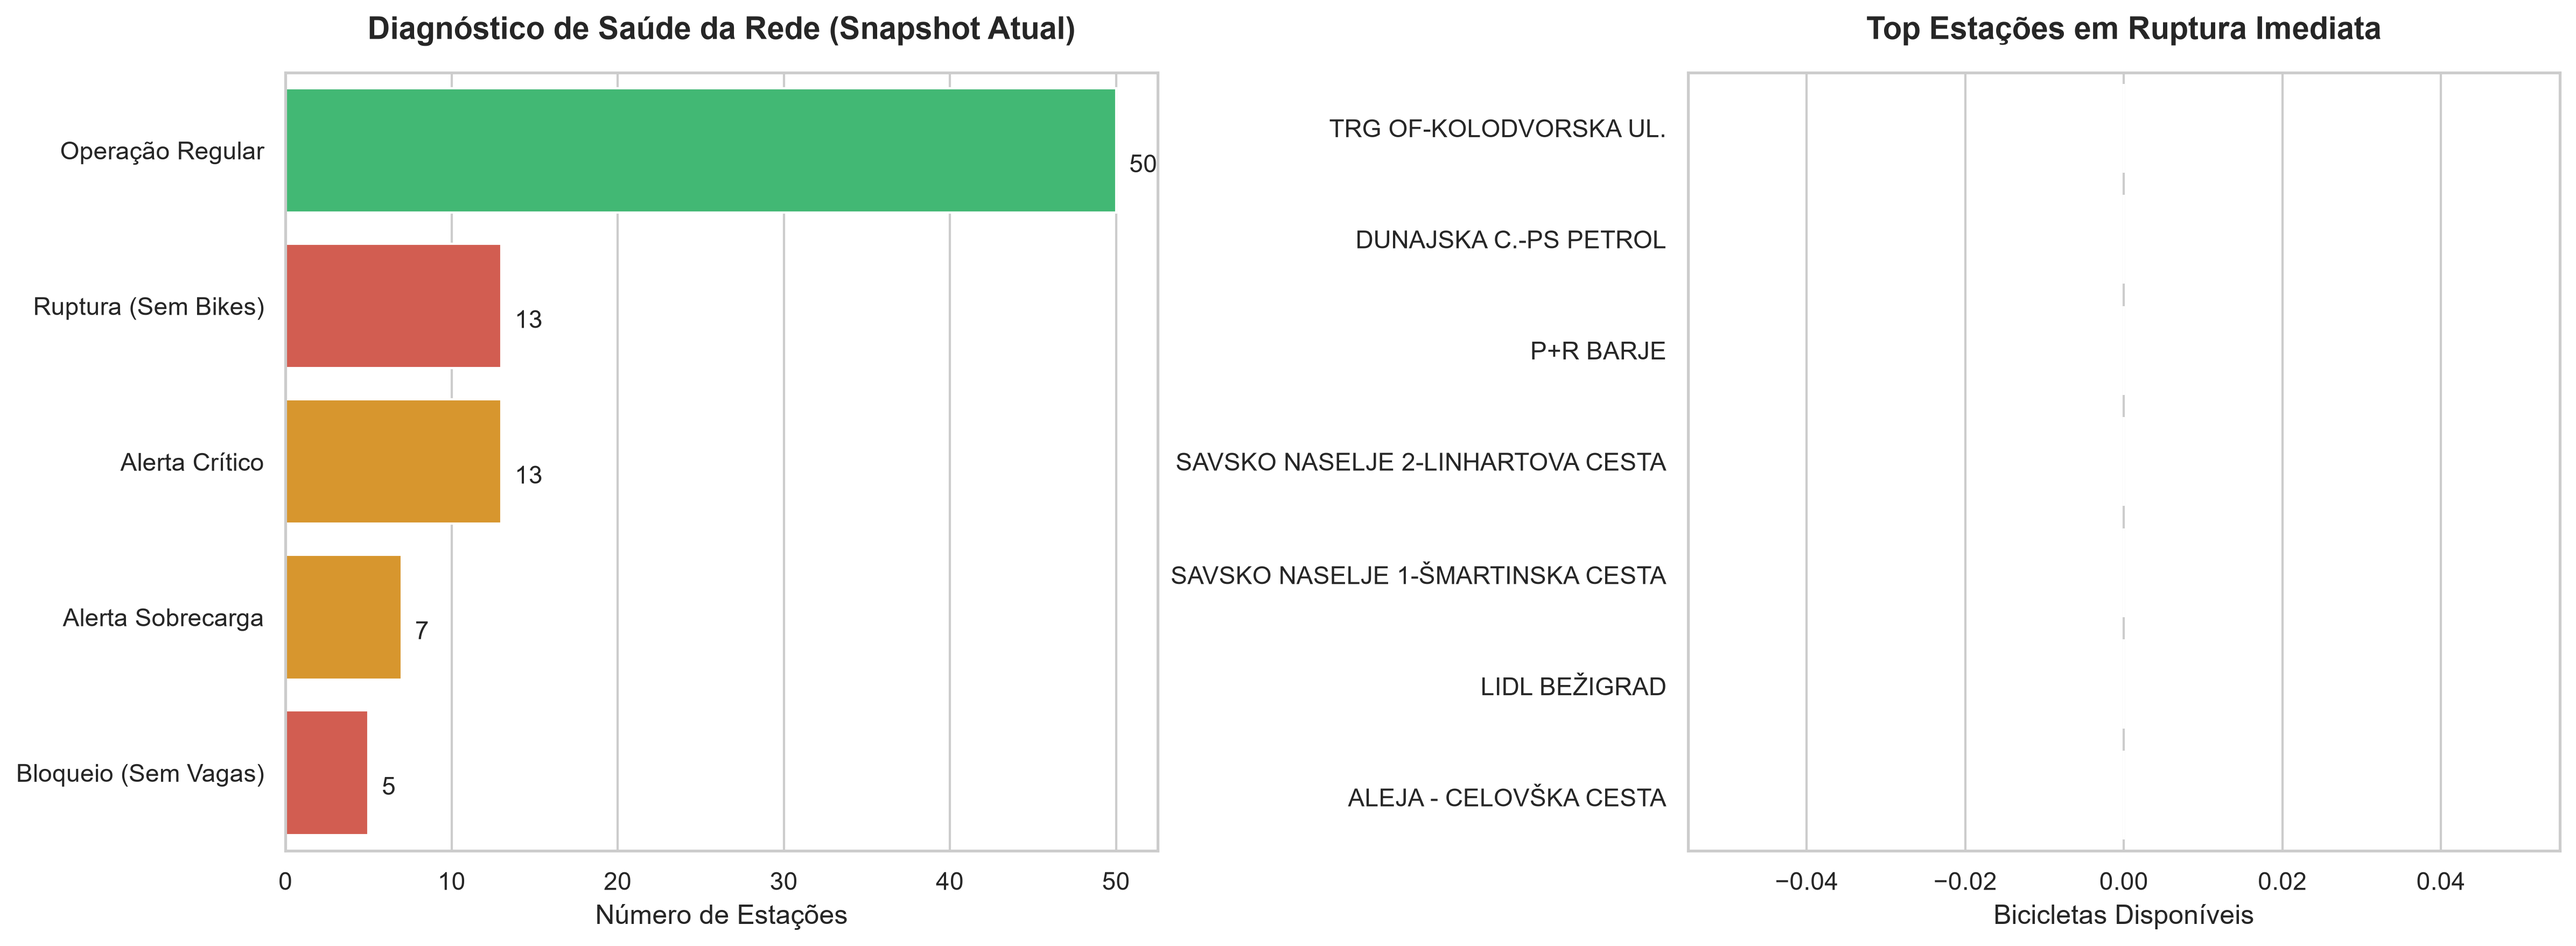
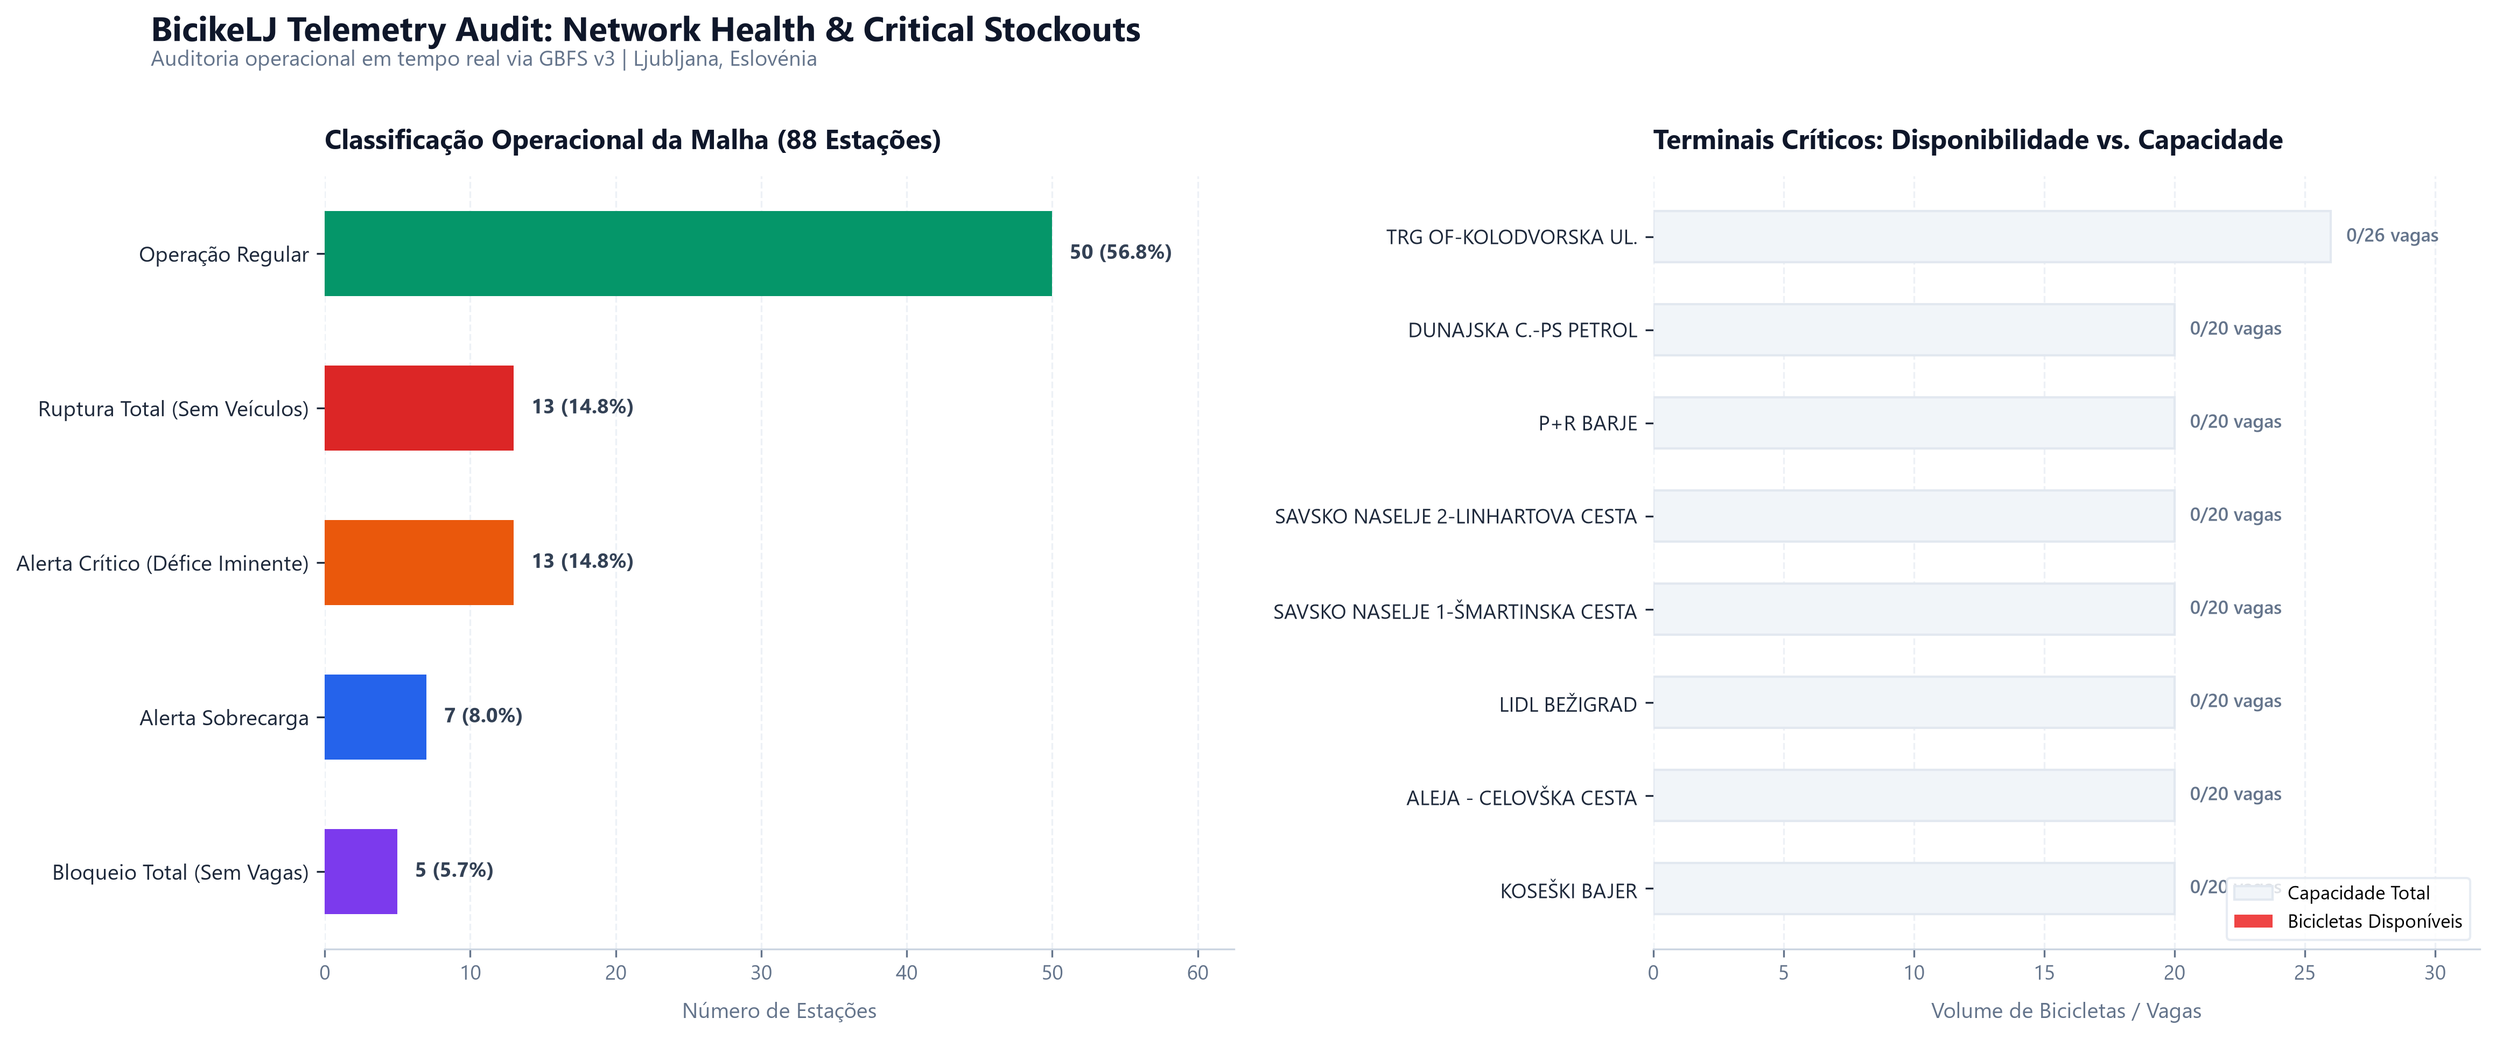
style: redesign operational dashboard with executive visual hierarchy

diff --git a/visualize.py b/visualize.py
@@ -1,68 +1,108 @@
+import os
 import sqlite3
 import pandas as pd
 import matplotlib.pyplot as plt
-import seaborn as sns
-import os
 
-# 1. Configurar estética visual
-sns.set_theme(style="whitegrid")
-plt.rcParams.update({'font.sans-serif': 'Arial', 'font.size': 11})
+# 1. Configuração tipográfica e estética limpa
+plt.rcParams.update({
+    'font.family': 'sans-serif',
+    'font.sans-serif': ['Segoe UI', 'Helvetica Neue', 'Arial', 'sans-serif'],
+    'axes.edgecolor': '#CBD5E1',
+    'axes.linewidth': 0.8,
+    'figure.facecolor': '#FFFFFF',
+    'axes.facecolor': '#FFFFFF'
+})
 
 conn = sqlite3.connect("bicikelj.db")
 
-# 2. Query 1: Distribuição do Status da Rede
+# 2. Query 1: Diagnóstico da Malha (KPIs)
 query_kpi = """
 SELECT 
     CASE 
-        WHEN bikes_available = 0 THEN 'Ruptura (Sem Bikes)'
-        WHEN bikes_available BETWEEN 1 AND 2 THEN 'Alerta Crítico'
-        WHEN docks_available = 0 THEN 'Bloqueio (Sem Vagas)'
+        WHEN bikes_available = 0 THEN 'Ruptura Total (Sem Veículos)'
+        WHEN bikes_available BETWEEN 1 AND 2 THEN 'Alerta Crítico (Défice Iminente)'
+        WHEN docks_available = 0 THEN 'Bloqueio Total (Sem Vagas)'
         WHEN docks_available BETWEEN 1 AND 2 THEN 'Alerta Sobrecarga'
         ELSE 'Operação Regular'
     END AS status,
-    COUNT(*) AS total
+    COUNT(*) AS total,
+    ROUND(COUNT(*) * 100.0 / (SELECT COUNT(*) FROM station_snapshots), 1) AS percentual
 FROM station_snapshots
 GROUP BY status
 ORDER BY total DESC;
 """
 df_kpi = pd.read_sql_query(query_kpi, conn)
 
-# 3. Query 2: Top 7 Estações com Menor Oferta
+# 3. Query 2: Terminais em Ruptura Imediata
 query_critical = """
 SELECT name, bikes_available, capacity
 FROM station_snapshots
 ORDER BY bikes_available ASC, capacity DESC
-LIMIT 7;
+LIMIT 8;
 """
 df_critical = pd.read_sql_query(query_critical, conn)
 conn.close()
 
-# 4. Construção da Figura com 2 Subplots
-fig, (ax1, ax2) = plt.subplots(1, 2, figsize=(16, 6))
+# 4. Mapeamento de Cores Corporativas
+palette_map = {
+    'Operação Regular': '#059669',                  # Emerald
+    'Ruptura Total (Sem Veículos)': '#DC2626',      # Crimson
+    'Alerta Crítico (Défice Iminente)': '#EA580C',  # Amber
+    'Bloqueio Total (Sem Vagas)': '#7C3AED',        # Violet
+    'Alerta Sobrecarga': '#2563EB'                 # Blue
+}
+df_kpi['cor'] = df_kpi['status'].map(lambda s: palette_map.get(s, '#64748B'))
 
-# Gráfico 1: Barras horizontais de status da malha
-cores_kpi = ['#2ecc71' if 'Regular' in s else '#e74c3c' if 'Ruptura' in s or 'Bloqueio' in s else '#f39c12' for s in df_kpi['status']]
-sns.barplot(data=df_kpi, y='status', x='total', palette=cores_kpi, ax=ax1)
-ax1.set_title("Diagnóstico de Saúde da Rede (Snapshot Atual)", fontsize=14, weight='bold', pad=15)
-ax1.set_xlabel("Número de Estações")
-ax1.set_ylabel("")
+# 5. Construção da Figura
+fig, (ax1, ax2) = plt.subplots(1, 2, figsize=(15.5, 6.2), gridspec_kw={'width_ratios': [1.1, 1]})
 
-# Adiciona rótulos numéricos nas barras
-for p in ax1.patches:
-    ax1.annotate(f"{int(p.get_width())}", (p.get_width() + 0.8, p.get_y() + 0.5), va='center')
+# --- GRÁFICO 1: Distribuição da Malha ---
+bars1 = ax1.barh(df_kpi['status'], df_kpi['total'], color=df_kpi['cor'], height=0.55, zorder=3)
+ax1.set_title("Classificação Operacional da Malha (88 Estações)", fontsize=12, weight='bold', color='#0F172A', loc='left', pad=12)
+ax1.set_xlabel("Número de Estações", fontsize=9.5, color='#64748B', labelpad=8)
+ax1.set_xlim(0, max(df_kpi['total']) * 1.25)
+ax1.tick_params(axis='y', labelsize=9.5, colors='#1E293B')
+ax1.tick_params(axis='x', labelsize=9, colors='#64748B')
+ax1.invert_yaxis()
 
-# Gráfico 2: Terminais Críticos com Risco de Ruptura
-sns.barplot(data=df_critical, y='name', x='bikes_available', color='#e74c3c', ax=ax2)
-ax2.set_title("Top Estações em Ruptura Imediata", fontsize=14, weight='bold', pad=15)
-ax2.set_xlabel("Bicicletas Disponíveis")
-ax2.set_ylabel("")
+for bar, pct in zip(bars1, df_kpi['percentual']):
+    width = bar.get_width()
+    y_pos = bar.get_y() + bar.get_height() / 2
+    ax1.text(width + 1.2, y_pos, f"{int(width)} ({pct}%)", va='center', ha='left', fontsize=9, weight='bold', color='#334155')
+
+# --- GRÁFICO 2: Terminais Críticos (Disponibilidade vs Capacidade) ---
+ax2.barh(df_critical['name'], df_critical['capacity'], color='#F1F5F9', edgecolor='#E2E8F0', height=0.55, label='Capacidade Total', zorder=2)
+ax2.barh(df_critical['name'], df_critical['bikes_available'], color='#EF4444', height=0.55, label='Bicicletas Disponíveis', zorder=3)
+
+ax2.set_title("Terminais Críticos: Disponibilidade vs. Capacidade", fontsize=12, weight='bold', color='#0F172A', loc='left', pad=12)
+ax2.set_xlabel("Volume de Bicicletas / Vagas", fontsize=9.5, color='#64748B', labelpad=8)
+ax2.tick_params(axis='y', labelsize=9, colors='#1E293B')
+ax2.tick_params(axis='x', labelsize=9, colors='#64748B')
+ax2.set_xlim(0, max(df_critical['capacity']) * 1.22)
+ax2.invert_yaxis()
+ax2.legend(loc='lower right', frameon=True, facecolor='#FFFFFF', edgecolor='#E2E8F0', fontsize=8.5)
+
+for i, row in df_critical.reset_index().iterrows():
+    ax2.text(row['capacity'] + 0.6, i, f"{row['bikes_available']}/{row['capacity']} vagas", va='center', ha='left', fontsize=8.5, color='#64748B', weight='500')
+
+# Limpeza de bordas e grelha
+for ax in [ax1, ax2]:
+    for spine in ['top', 'right', 'left']:
+        ax.spines[spine].set_visible(False)
+    ax.spines['bottom'].set_color('#CBD5E1')
+    ax.xaxis.grid(True, linestyle='--', alpha=0.6, color='#E2E8F0', zorder=1)
+    ax.yaxis.grid(False)
+
+# Título Principal e Subtítulo Executivo
+plt.suptitle("BicikeLJ Telemetry Audit: Network Health & Critical Stockouts", fontsize=15, weight='bold', color='#0F172A', x=0.06, y=1.03, ha='left')
+plt.figtext(0.06, 0.98, "Auditoria operacional em tempo real via GBFS v3 | Ljubljana, Eslovénia", fontsize=9.5, color='#64748B', ha='left')
 
 plt.tight_layout()
 
-# 5. Exportar a imagem gerada
+# 6. Gravação
 os.makedirs("assets", exist_ok=True)
-caminho_imagem = "assets/network_health.png"
-plt.savefig(caminho_imagem, dpi=300, bbox_inches='tight')
+caminho = "assets/network_health.png"
+plt.savefig(caminho, dpi=300, bbox_inches='tight')
 plt.close()
 
-print(f"[OK] Gráficos gerados com sucesso e guardados em: {caminho_imagem}")
+print(f"[OK] Dashboard executivo gerado com sucesso em: {caminho}")
